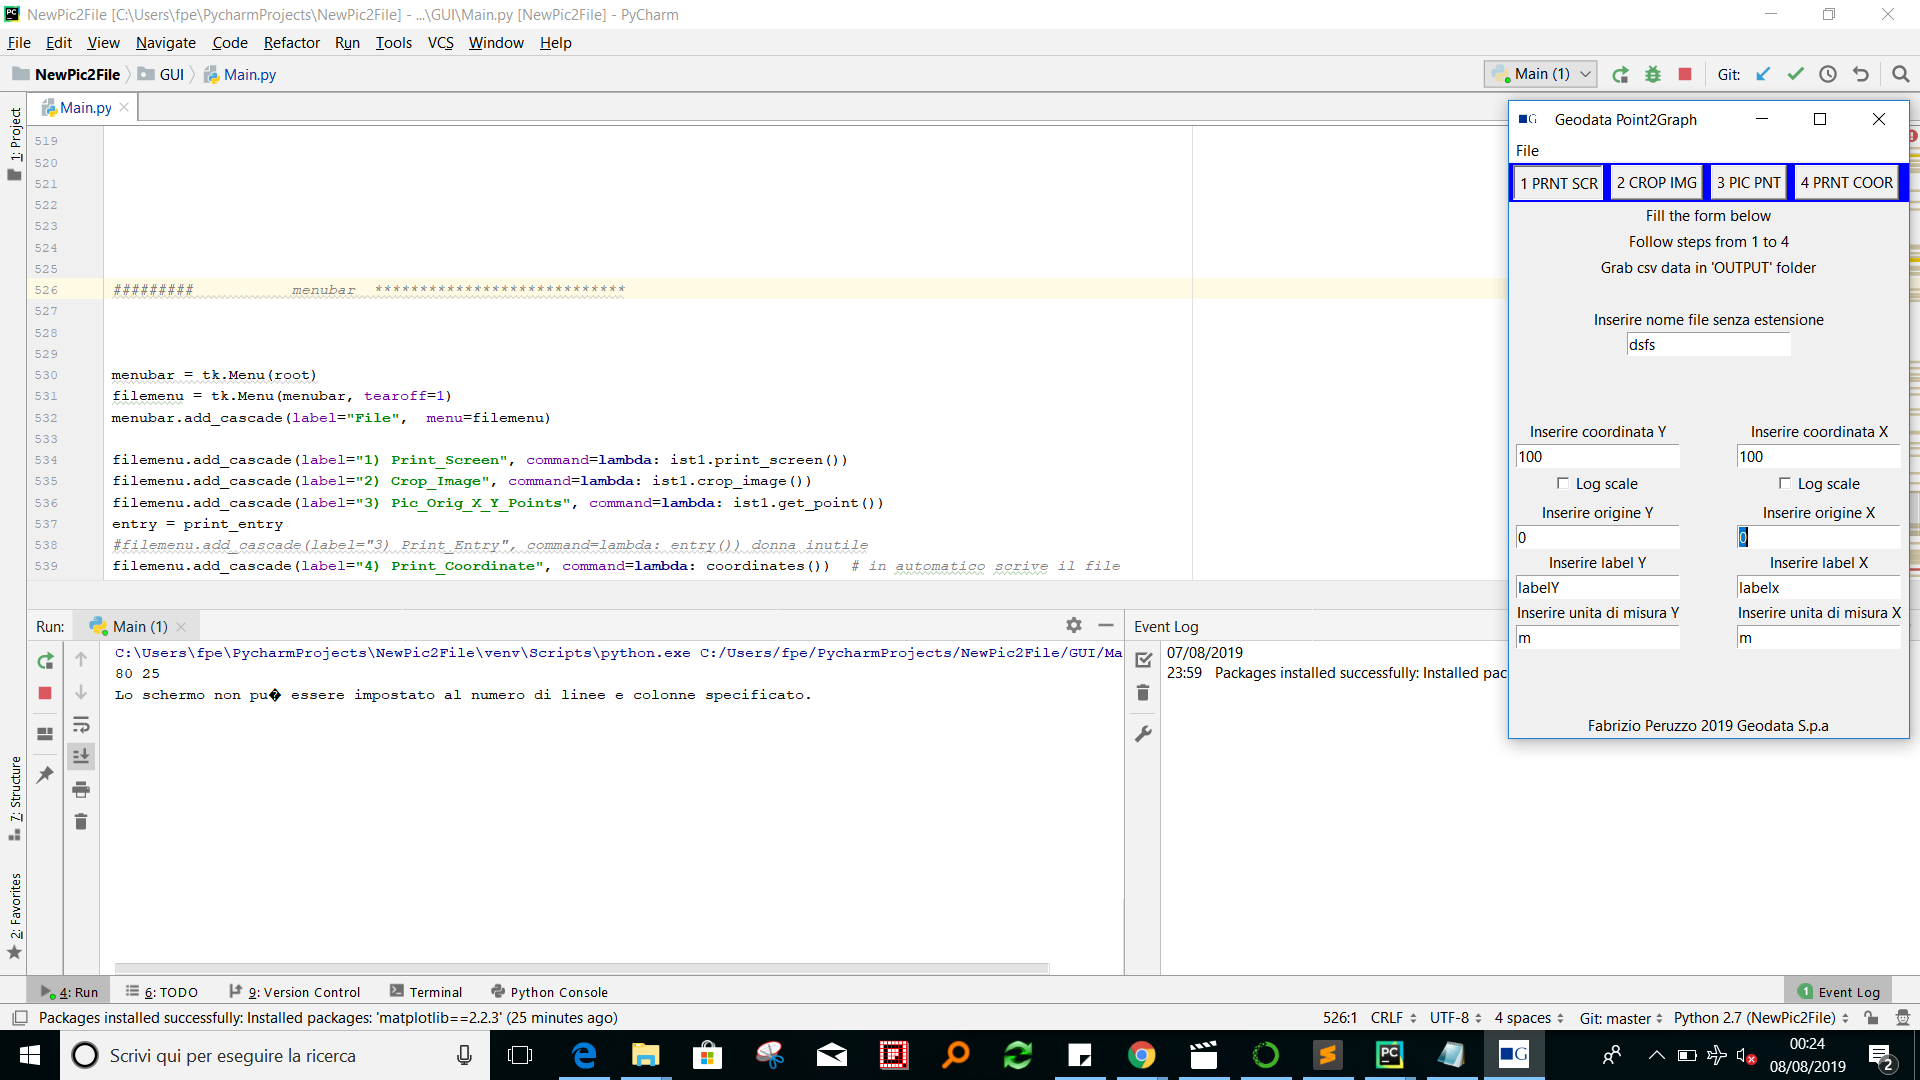
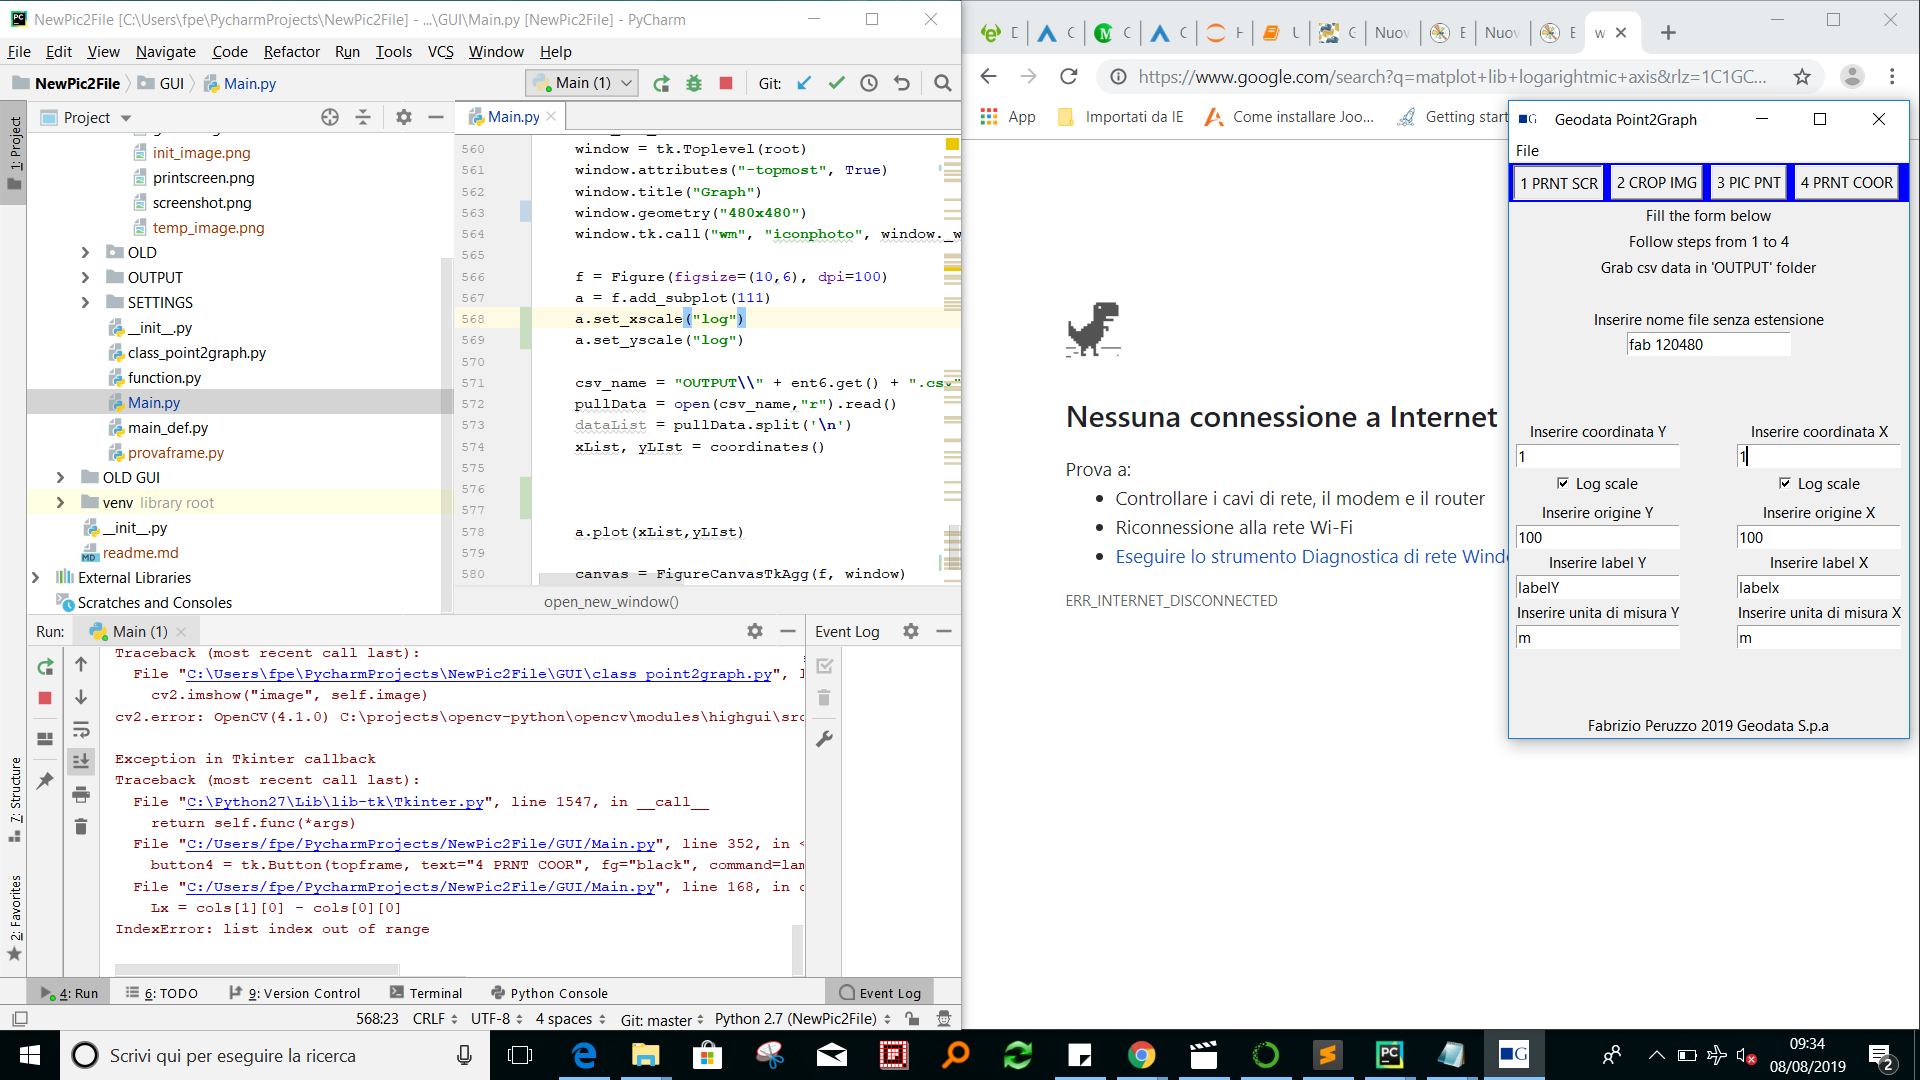
Added output window with graph logarightmic

diff --git a/GUI/Main.py b/GUI/Main.py
@@ -13,7 +13,8 @@ from matplotlib.figure import Figure
 from matplotlib import style
 
 
-
+LARGE_FONT = ("Verdana", 12)
+style.use("ggplot")
 
 
 
@@ -559,16 +560,20 @@ def open_new_window():
     window = tk.Toplevel(root)
     window.attributes("-topmost", True)
     window.title("Graph")
-    window.geometry("480x280")
+    window.geometry("480x480")
     window.tk.call("wm", "iconphoto", window._w, photo)
 
     f = Figure(figsize=(10,6), dpi=100)
     a = f.add_subplot(111)
+    a.set_xscale("log")
+    a.set_yscale("log")
 
     csv_name = "OUTPUT\\" + ent6.get() + ".csv"
     pullData = open(csv_name,"r").read()
     dataList = pullData.split('\n')
     xList, yLIst = coordinates()
+
+
 
     a.plot(xList,yLIst)
 
